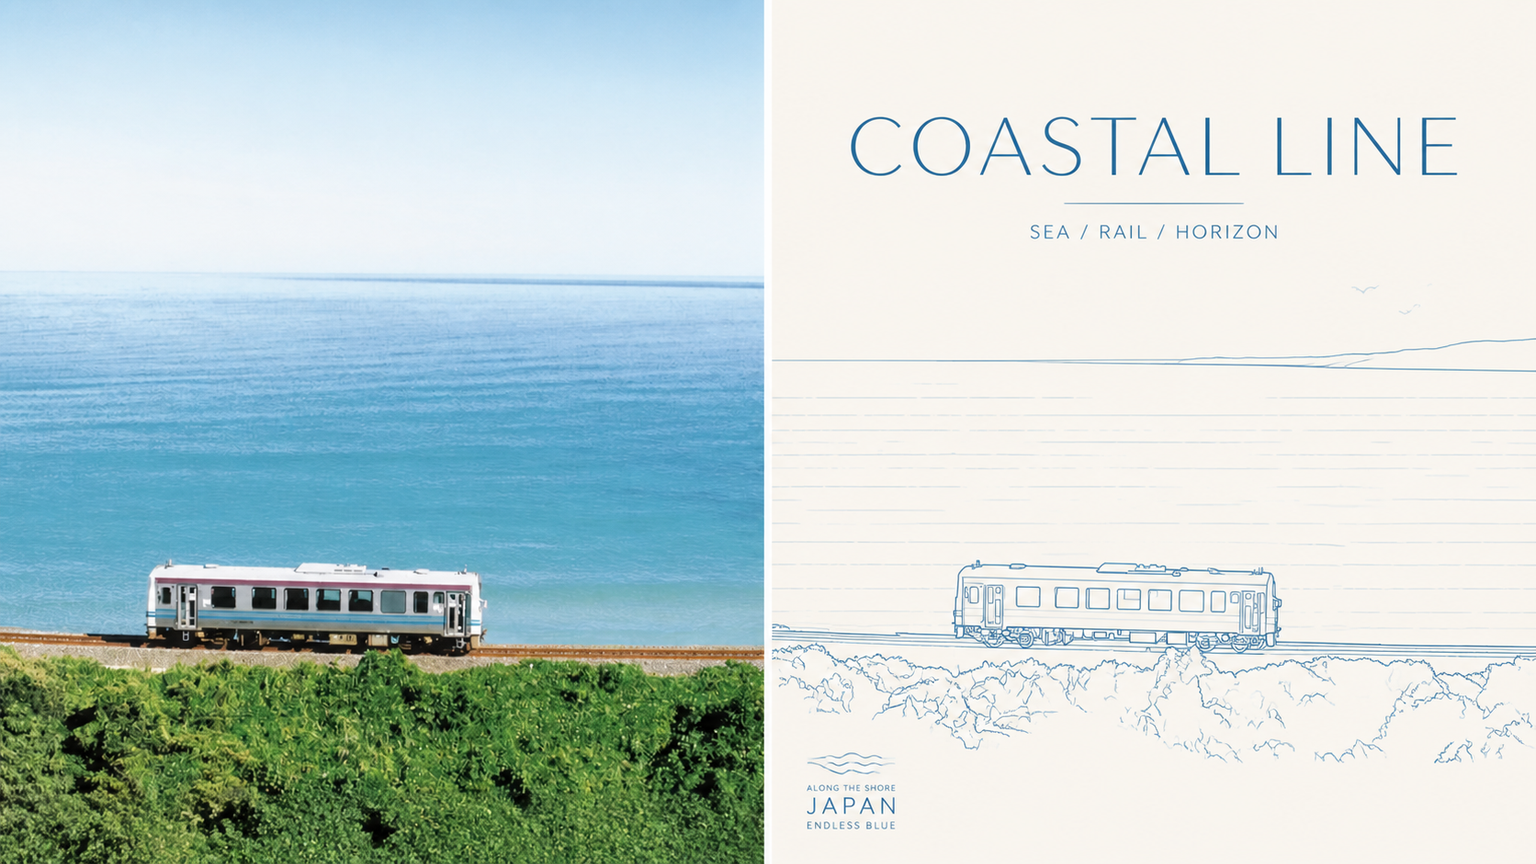
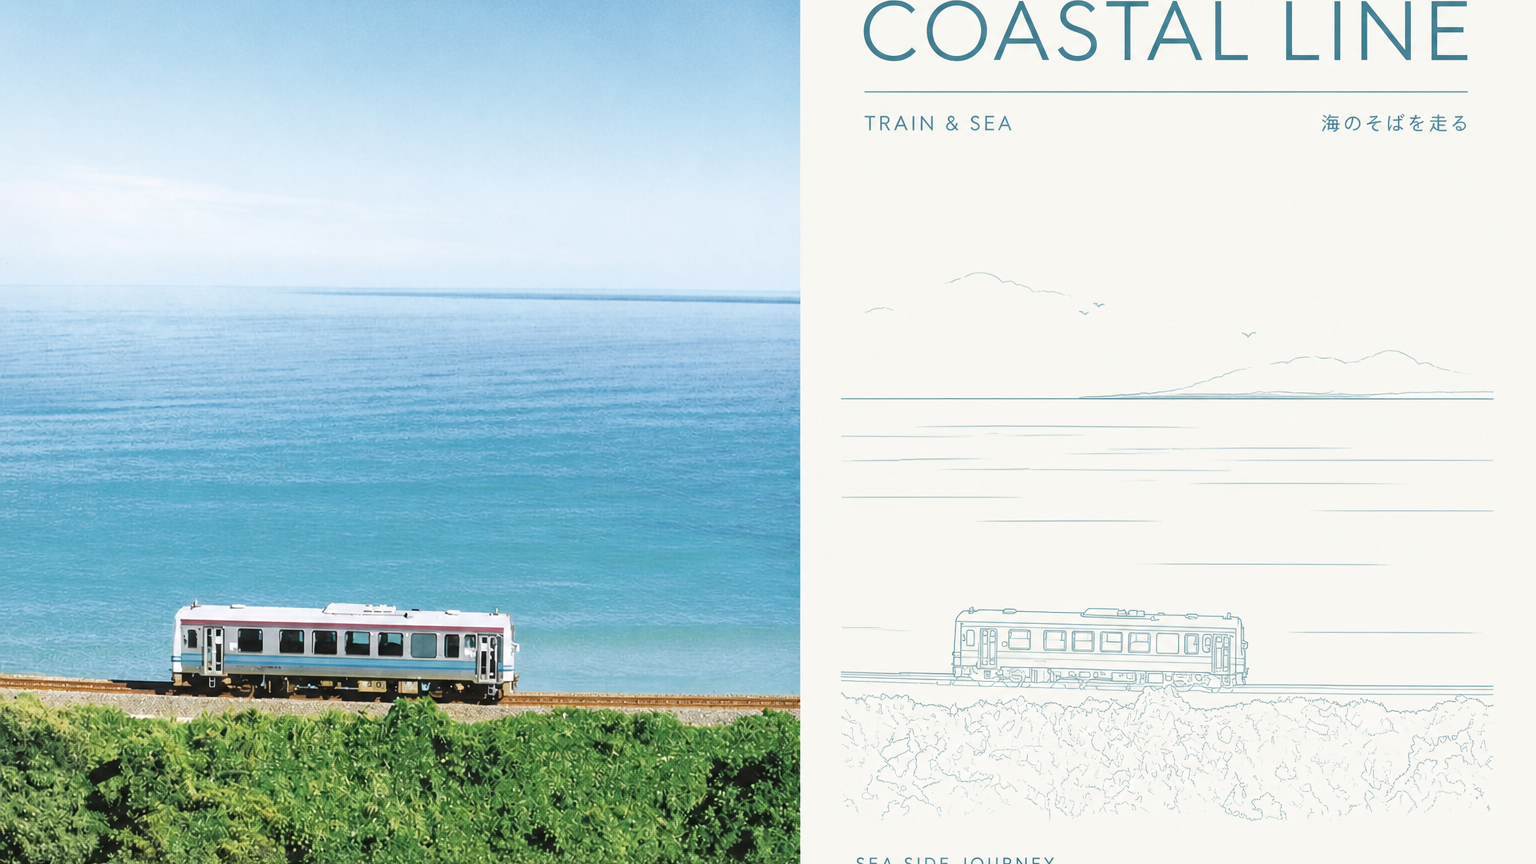
docs: add four 16:9 left-right samples

diff --git a/README.en.md b/README.en.md
@@ -16,6 +16,28 @@
 
 </div>
 
+<!-- xxd-human-intro:start -->
+## The short, honest version
+
+Ever had a photo you loved turn into generic “AI design”? The subject survives, but the relationship, mood, and tiny details that made the photo yours disappear.
+
+That frustration is why I made **Panel 004**. It does not press a template onto your image. It first works out what must not be lost, then translates it into **Build one credible reality scene, then distil it into a collectible modern line poster**.
+
+### Understand it in 30 seconds
+
+- **Give it:** one photo, a folder of images, or a rough idea.
+- **It does:** preserves recognizable people, objects, actions, and relationships, then redesigns them in this Panel’s own visual language.
+- **You get:** ready-to-use PNGs—comparison layouts, design-only artwork, multiple ratios, or a wallpaper set.
+
+### The easiest way to try it
+
+You do not need to study every option first. Give your Agent an image and say:
+
+> Use XXD Panel 004 on this image and recommend the best layout and size first.
+
+Check the samples below if you want to feel out the aesthetic. If you are ready, jump to [Get started](#get-started). The full modes, sizes, and parameters are tucked into an expandable reference for later.
+<!-- xxd-human-intro:end -->
+
 ## Samples · From X
 
 <table>
@@ -29,6 +51,11 @@
   </tr>
   <tr>
     <td colspan="2"><img src="./assets/examples/sample-05.png" alt="XXD Panel 004 Sample 5"></td>
+  </tr>
+  <tr>
+    <td width="33%"><img src="./assets/examples/sample-06.png" alt="XXD Panel 004 Sample 6"></td>
+    <td width="33%"><img src="./assets/examples/sample-07.png" alt="XXD Panel 004 Sample 7"></td>
+    <td width="33%"><img src="./assets/examples/sample-08.png" alt="XXD Panel 004 Sample 8"></td>
   </tr>
 </table>
 
@@ -85,6 +112,9 @@ If another city or theme could replace the input without materially changing the
 - **Structural geometry:** horizontal baselines, vertical construction lines, and perspective guides serve alignment, hierarchy, and rhythm only.
 - **Theme-specific colour:** monochrome or very limited colour derives from climate, light, time, material, history, commerce, food, nature, and mood.
 - **Collectible type system:** one clear title and zero to three reliable supporting fields enter the grid; never invent local language, address, coordinates, year, or signs.
+
+<details>
+<summary><strong>Full capabilities and parameters (open when needed)</strong></summary>
 
 ## The original brief is authoritative
 
@@ -227,6 +257,8 @@ GPT Image 2 is the default first choice. It keeps this project's established wor
 Seedance 5.0 Pro, Nano Banana Pro (Gemini Image Pro), Nano Banana 2 (Gemini Image Flash), or another compatible bitmap model may also be used when it is actually available through the current tools or configured routes and can satisfy source fidelity, whole-canvas ratio, target-language text, and linked-wallpaper multi-reference requirements. An alternative changes only the generation route; it must not change modes, canvas, copy, locale, wallpaper relationship, or the complete-canvas-first strategy.
 
 If no suitable route is available, the Skill asks the user to enable an image-generation tool or provide an API key. User-provided credentials may be used for the current task without being echoed, displayed, logged, or exposed. They are not persisted, and provider, account, billing, or global route configuration is not modified, unless the user explicitly requests that configuration change.
+
+</details>
 
 ## Get started
 

diff --git a/assets/examples/README.md b/assets/examples/README.md
@@ -11,5 +11,8 @@
   - `sample-03.jpg`
   - `sample-04.jpg`
   - `sample-05.png` — generated 16:9 left-right English-copy sample from the Chenxiang poster batch
+  - `sample-06.png` — generated 16:9 left-right English-copy sample from the Chenxiang poster batch
+  - `sample-07.png` — generated 16:9 left-right English-copy sample from the Chenxiang poster batch
+  - `sample-08.png` — generated 16:9 left-right English-copy sample from the Chenxiang poster batch
 
 The repository READMEs display these local copies; the original four samples link back to their X post, while sample-05 is a newly generated batch sample. The samples demonstrate the style's aesthetic motive and range only; they never become generation references, source material, fixed subjects, palettes, composition, copy, or default canvas sizes.
